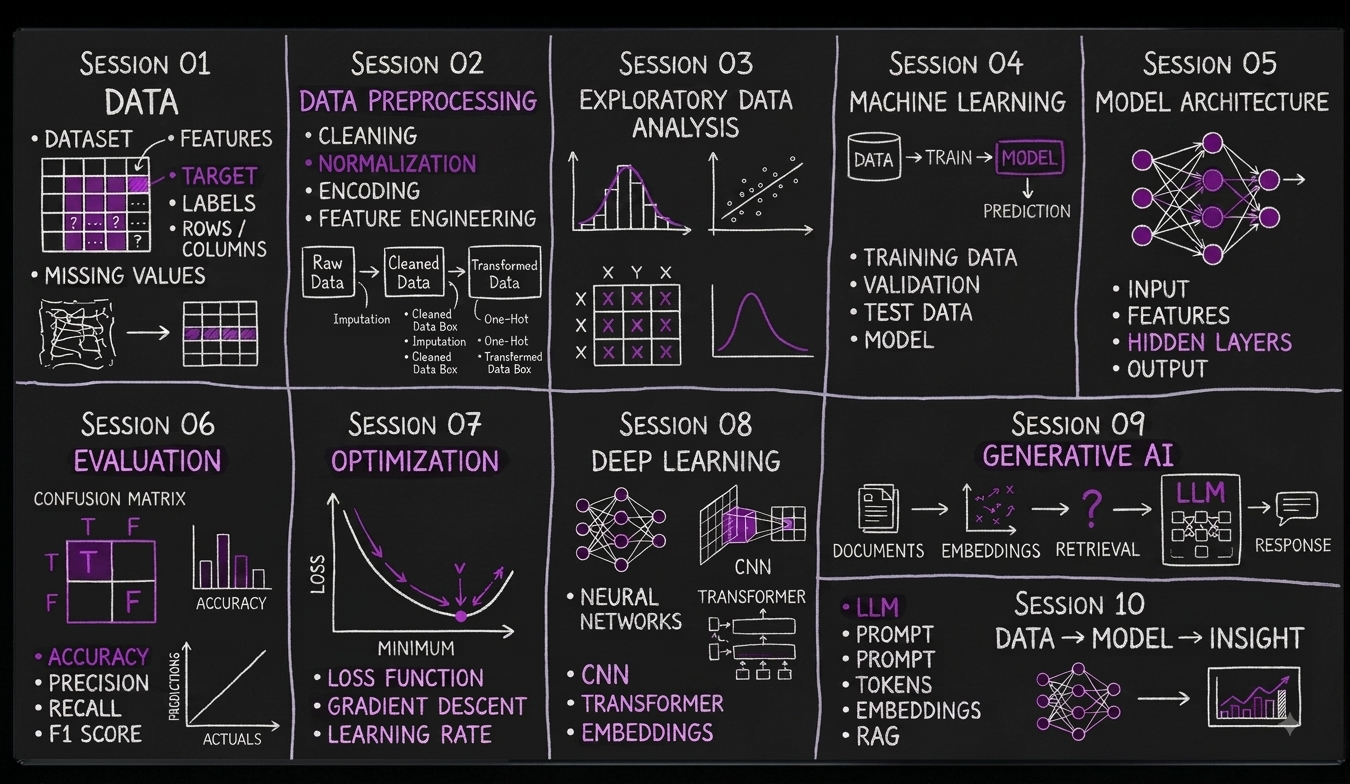
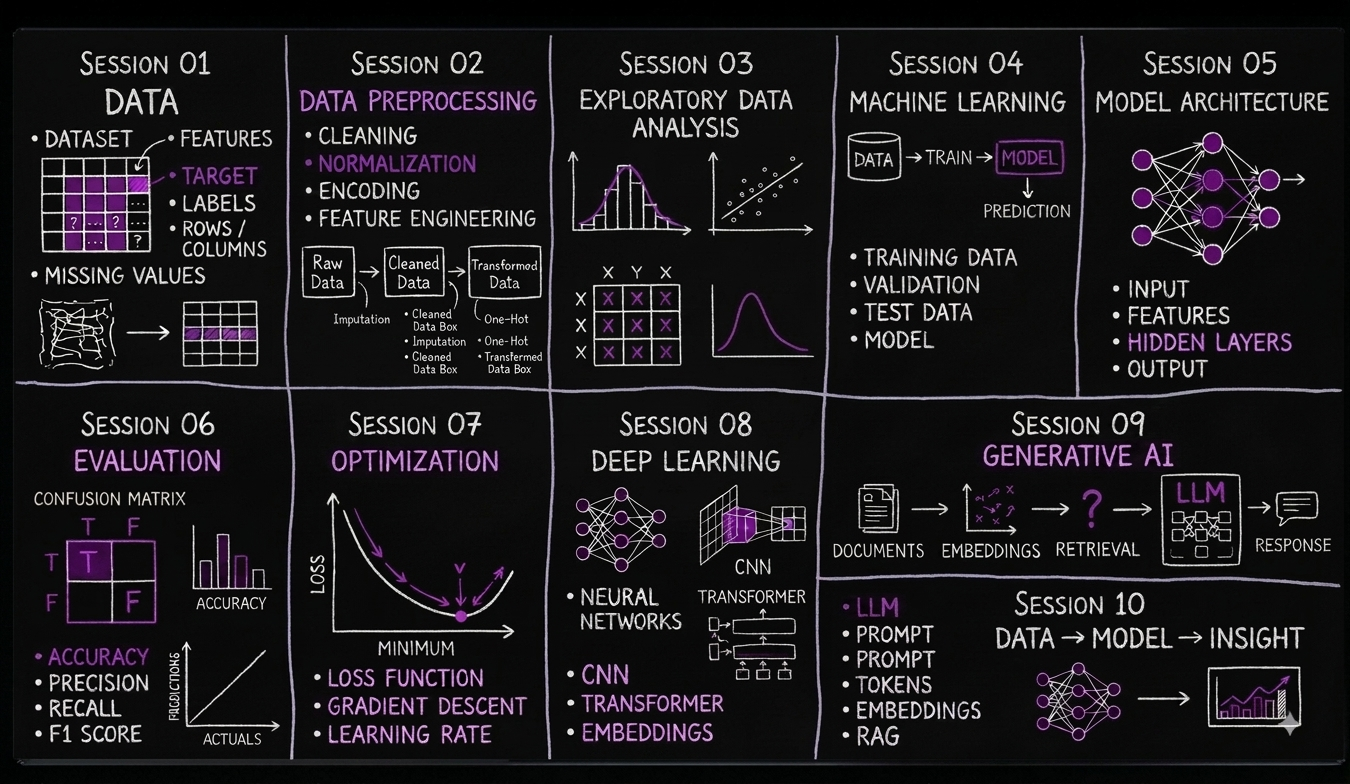
feat: implement fluid purple paint-wipe page transition across all routes

diff --git a/components/TransitionOverlay.tsx b/components/TransitionOverlay.tsx
@@ -1,0 +1,183 @@
+"use client";
+
+import React, { createContext, useContext, useEffect, useState } from "react";
+import { motion, AnimatePresence } from "framer-motion";
+import { usePathname, useRouter } from "next/navigation";
+
+interface TransitionContextType {
+  triggerTransition: (href: string) => void;
+  isPending: boolean;
+}
+
+const TransitionContext = createContext<TransitionContextType>({
+  triggerTransition: () => {},
+  isPending: false,
+});
+
+export const usePageTransition = () => useContext(TransitionContext);
+
+// SVG path definitions for 100x100 viewport
+const bottomPath = "M 0 100 Q 50 100 100 100 L 100 100 L 0 100 Z";
+const sweepUpPath = "M 0 0 Q 50 -25 100 0 L 100 100 L 0 100 Z";
+const solidCoverPath = "M 0 0 Q 50 0 100 0 L 100 100 L 0 100 Z";
+const retractUpPath = "M 0 0 Q 50 -25 100 0 L 100 0 L 0 0 Z";
+const topExitPath = "M 0 -15 Q 50 -15 100 -15 L 100 -15 L 0 -15 Z";
+
+export function TransitionOverlayProvider({
+  children,
+}: {
+  children: React.ReactNode;
+}) {
+  const router = useRouter();
+  const pathname = usePathname();
+  const [isAnimating, setIsAnimating] = useState(false);
+  const [stage, setStage] = useState<"idle" | "covering" | "covered" | "uncovering">("idle");
+  const [pendingHref, setPendingHref] = useState<string | null>(null);
+
+  // Trigger transition to a target href
+  const triggerTransition = (href: string) => {
+    if (isAnimating || href === pathname) return;
+    setPendingHref(href);
+    setIsAnimating(true);
+    setStage("covering");
+  };
+
+  // State machine for stages
+  useEffect(() => {
+    if (stage === "covering") {
+      // 1. Paint sweeps UP to cover screen
+      const timer = setTimeout(() => {
+        setStage("covered");
+        if (pendingHref) {
+          router.push(pendingHref);
+        }
+      }, 480);
+      return () => clearTimeout(timer);
+    }
+
+    if (stage === "covered") {
+      // 2. Hold full purple screen briefly so page mounts
+      const timer = setTimeout(() => {
+        setStage("uncovering");
+      }, 120);
+      return () => clearTimeout(timer);
+    }
+
+    if (stage === "uncovering") {
+      // 3. Paint retracts UP off top of screen
+      const timer = setTimeout(() => {
+        setStage("idle");
+        setIsAnimating(false);
+        setPendingHref(null);
+      }, 500);
+      return () => clearTimeout(timer);
+    }
+  }, [stage, pendingHref, router]);
+
+  // Determine current path for Layer 1 (Accent wave)
+  const getLayer1Path = () => {
+    switch (stage) {
+      case "covering":
+        return sweepUpPath;
+      case "covered":
+        return solidCoverPath;
+      case "uncovering":
+        return topExitPath;
+      default:
+        return bottomPath;
+    }
+  };
+
+  // Determine current path for Layer 2 (Main purple fill)
+  const getLayer2Path = () => {
+    switch (stage) {
+      case "covering":
+        return solidCoverPath;
+      case "covered":
+        return solidCoverPath;
+      case "uncovering":
+        return topExitPath;
+      default:
+        return bottomPath;
+    }
+  };
+
+  return (
+    <TransitionContext.Provider value={{ triggerTransition, isPending: isAnimating }}>
+      {children}
+
+      {/* SVG Paint Wipe Layer with AnimatePresence */}
+      <AnimatePresence mode="wait">
+        {isAnimating && (
+          <motion.div
+            initial={{ opacity: 1 }}
+            animate={{ opacity: 1 }}
+            exit={{ opacity: 0, transition: { duration: 0.15 } }}
+            className="fixed inset-0 z-[99999] pointer-events-auto overflow-hidden select-none"
+          >
+            {/* Layer 1: Neon Accent Purple Fluid Wave */}
+            <svg
+              className="absolute inset-0 w-full h-full text-purple-500/60 drop-shadow-xl"
+              viewBox="0 0 100 100"
+              preserveAspectRatio="none"
+            >
+              <motion.path
+                fill="currentColor"
+                initial={{ d: bottomPath }}
+                animate={{ d: getLayer1Path() }}
+                transition={{
+                  duration: 0.46,
+                  ease: [0.76, 0, 0.24, 1],
+                  delay: stage === "covering" ? 0 : 0.04,
+                }}
+              />
+            </svg>
+
+            {/* Layer 2: Deep Obsidian Purple Main Paint Fill */}
+            <svg
+              className="absolute inset-0 w-full h-full text-[#4c1d95]"
+              viewBox="0 0 100 100"
+              preserveAspectRatio="none"
+            >
+              <defs>
+                <linearGradient id="purplePaintGrad" x1="0%" y1="0%" x2="100%" y2="100%">
+                  <stop offset="0%" stopColor="#3b0764" />
+                  <stop offset="50%" stopColor="#581c87" />
+                  <stop offset="100%" stopColor="#6b21a8" />
+                </linearGradient>
+              </defs>
+              <motion.path
+                fill="url(#purplePaintGrad)"
+                initial={{ d: bottomPath }}
+                animate={{ d: getLayer2Path() }}
+                transition={{
+                  duration: 0.44,
+                  ease: [0.76, 0, 0.24, 1],
+                  delay: stage === "covering" ? 0.03 : 0,
+                }}
+              />
+            </svg>
+
+            {/* Center Monogram Reveal */}
+            {(stage === "covering" || stage === "covered") && (
+              <motion.div
+                initial={{ opacity: 0, scale: 0.85, y: 15 }}
+                animate={{ opacity: 1, scale: 1, y: 0 }}
+                exit={{ opacity: 0, scale: 1.08, y: -15 }}
+                transition={{ duration: 0.25 }}
+                className="absolute inset-0 flex flex-col items-center justify-center pointer-events-none z-10"
+              >
+                <span className="text-purple-200/70 font-mono text-xs tracking-[0.4em] uppercase mb-2">
+                  Ashwini Portfolio
+                </span>
+                <div className="w-14 h-14 rounded-2xl bg-white/10 backdrop-blur-md border border-white/25 flex items-center justify-center text-white font-black text-2xl shadow-2xl">
+                  A
+                </div>
+              </motion.div>
+            )}
+          </motion.div>
+        )}
+      </AnimatePresence>
+    </TransitionContext.Provider>
+  );
+}

diff --git a/components/Hero.tsx b/components/Hero.tsx
@@ -3,6 +3,7 @@
 import { useState, useRef, useEffect } from "react";
 import { motion, AnimatePresence, useMotionValue, useSpring, useTransform, useReducedMotion } from "framer-motion";
 import Image from "next/image";
+import { TransitionLink } from "@/components/TransitionLink";
 
 // Interactive Circular AI Robot Avatar with Mouse-Tracking White Eyes
 function RobotAvatar({ mouseX, mouseY }: { mouseX: any; mouseY: any }) {
@@ -412,13 +413,13 @@ export function Hero() {
             className="hidden md:flex items-center gap-8 lg:gap-12 text-sm sm:text-base lg:text-lg xl:text-xl font-mono font-black tracking-widest text-white/90"
           >
             {navLinks.map((link) => (
-              <a 
+              <TransitionLink 
                 key={link.label}
                 href={link.href} 
                 className="hover:text-white transition-colors duration-200 py-1"
               >
                 <span>{link.label}</span>
-              </a>
+              </TransitionLink>
             ))}
           </motion.nav>
 
@@ -467,14 +468,14 @@ export function Hero() {
               className="absolute top-full left-4 right-4 bg-[#08080A]/95 backdrop-blur-xl border border-white/15 rounded-2xl px-6 py-6 md:hidden flex flex-col gap-4 shadow-2xl z-50 mt-2"
             >
               {navLinks.map((link) => (
-                <a
+                <TransitionLink
                   key={link.label}
                   href={link.href}
                   onClick={() => setMobileMenuOpen(false)}
                   className="font-mono text-base font-black tracking-widest text-white/90 hover:text-purple-400 py-2 transition-colors flex items-center justify-between"
                 >
                   <span>{link.label}</span>
-                </a>
+                </TransitionLink>
               ))}
             </motion.div>
           )}

diff --git a/components/TransitionLink.tsx b/components/TransitionLink.tsx
@@ -1,0 +1,48 @@
+"use client";
+
+import React from "react";
+import Link from "next/link";
+import { usePageTransition } from "./TransitionOverlay";
+
+interface TransitionLinkProps extends React.ComponentPropsWithoutRef<typeof Link> {
+  children: React.ReactNode;
+  href: string;
+  className?: string;
+  onClick?: (e: React.MouseEvent<HTMLAnchorElement>) => void;
+}
+
+export function TransitionLink({
+  children,
+  href,
+  className = "",
+  onClick,
+  ...props
+}: TransitionLinkProps) {
+  const { triggerTransition, isPending } = usePageTransition();
+
+  const handleClick = (e: React.MouseEvent<HTMLAnchorElement>) => {
+    // Invoke custom onClick handler if provided
+    if (onClick) {
+      onClick(e);
+    }
+
+    // Bypass for external links, anchor hash links, new tabs, or if transition is already running
+    const isExternal = href.startsWith("http") || href.startsWith("//");
+    const isHash = href.startsWith("#");
+    const isNewTab = props.target === "_blank";
+
+    if (isExternal || isHash || isNewTab || e.defaultPrevented || isPending) {
+      return;
+    }
+
+    // Intercept internal page navigation for paint wipe transition
+    e.preventDefault();
+    triggerTransition(href);
+  };
+
+  return (
+    <Link href={href} onClick={handleClick} className={className} {...props}>
+      {children}
+    </Link>
+  );
+}

diff --git a/app/layout.tsx b/app/layout.tsx
@@ -9,6 +9,8 @@ export const metadata: Metadata = {
   description: "Building with data, models & intelligence.",
 };
 
+import { TransitionOverlayProvider } from "@/components/TransitionOverlay";
+
 export default function RootLayout({
   children,
 }: Readonly<{
@@ -16,7 +18,9 @@ export default function RootLayout({
 }>) {
   return (
     <html lang="en">
-      <body className={inter.className}>{children}</body>
+      <body className={inter.className}>
+        <TransitionOverlayProvider>{children}</TransitionOverlayProvider>
+      </body>
     </html>
   );
 }

diff --git a/app/work/page.tsx b/app/work/page.tsx
@@ -1,7 +1,7 @@
 "use client";
 
 import { useState } from "react";
-import Link from "next/link";
+import { TransitionLink as Link } from "@/components/TransitionLink";
 import { motion } from "framer-motion";
 import { projectsData } from "@/lib/projectsData";
 import { Search, ArrowUpRight, Cpu, Layers, Sparkles, Filter } from "lucide-react";

diff --git a/app/about/page.tsx b/app/about/page.tsx
@@ -1,7 +1,7 @@
 "use client";
 
 import { useState } from "react";
-import Link from "next/link";
+import { TransitionLink as Link } from "@/components/TransitionLink";
 import { motion } from "framer-motion";
 import { Copy, Check, Sparkles, ArrowRight, Award, Terminal, Code2 } from "lucide-react";
 

diff --git a/app/not-found.tsx b/app/not-found.tsx
@@ -1,7 +1,7 @@
 "use client";
 
 import React, { useState, useEffect } from "react";
-import Link from "next/link";
+import { TransitionLink as Link } from "@/components/TransitionLink";
 import { motion, useMotionValue, useSpring, useReducedMotion } from "framer-motion";
 import {
   ArrowLeft,

diff --git a/components/Projects.tsx b/components/Projects.tsx
@@ -1,7 +1,7 @@
 "use client";
 
 import { useState } from "react";
-import Link from "next/link";
+import { TransitionLink as Link } from "@/components/TransitionLink";
 import { motion, AnimatePresence } from "framer-motion";
 import { projectsData } from "@/lib/projectsData";
 

diff --git a/app/work/[id]/page.tsx b/app/work/[id]/page.tsx
@@ -1,6 +1,6 @@
 "use client";
 
-import Link from "next/link";
+import { TransitionLink as Link } from "@/components/TransitionLink";
 import { notFound } from "next/navigation";
 import { motion } from "framer-motion";
 import { projectsData } from "@/lib/projectsData";

diff --git a/components/Skills.tsx b/components/Skills.tsx
@@ -1,7 +1,7 @@
 "use client";
 
 import { useState, useRef } from "react";
-import Link from "next/link";
+import { TransitionLink as Link } from "@/components/TransitionLink";
 import {
   motion,
   AnimatePresence,

diff --git a/doc/current.md b/doc/current.md
@@ -7,6 +7,7 @@
 - **Icon System**: Standardized on `simple-icons` for tech logos, `lucide-react` for UI/data controls, and `@tabler/icons-react` for secondary UI icons (`TechIcon.tsx`). Strictly zero raw emojis.
 - **Scroll & Transitions**: GSAP ScrollTrigger curtain transitions with `sticky top-0 min-h-[100dvh]` stacking layers across sections.
 - **Custom Scrollbar**: Dark black floating pill scrollbar system (`app/globals.css`).
+- **Purple Paint-Wipe Page Transitions (`TransitionOverlay.tsx`, `TransitionLink.tsx`)**: Fluid, dual-layer SVG paint wipe page transition across all routes (`Home`, `Work`, `About`, `Work ID`, `404`) with organic wave morphing and center monogram reveal. Fixed SVG path curve coordinates to retract upward (`sweepUpPath` → `solidCoverPath` → `retractUpPath` → `topExitPath`) and wrapped overlay in `<AnimatePresence>` to guarantee complete DOM unmounting when idle.
 
 ### 2. Core Homepage Sections (`app/page.tsx`)
 - **Hero Section (`components/Hero.tsx`)**: Editorial typography (`DATA SCIENTIST × AI`), mouse parallax 3D depth, responsive top navbar with mega-menu dropdowns, and interactive AI Robot Mascot with proximity speech bubble.
